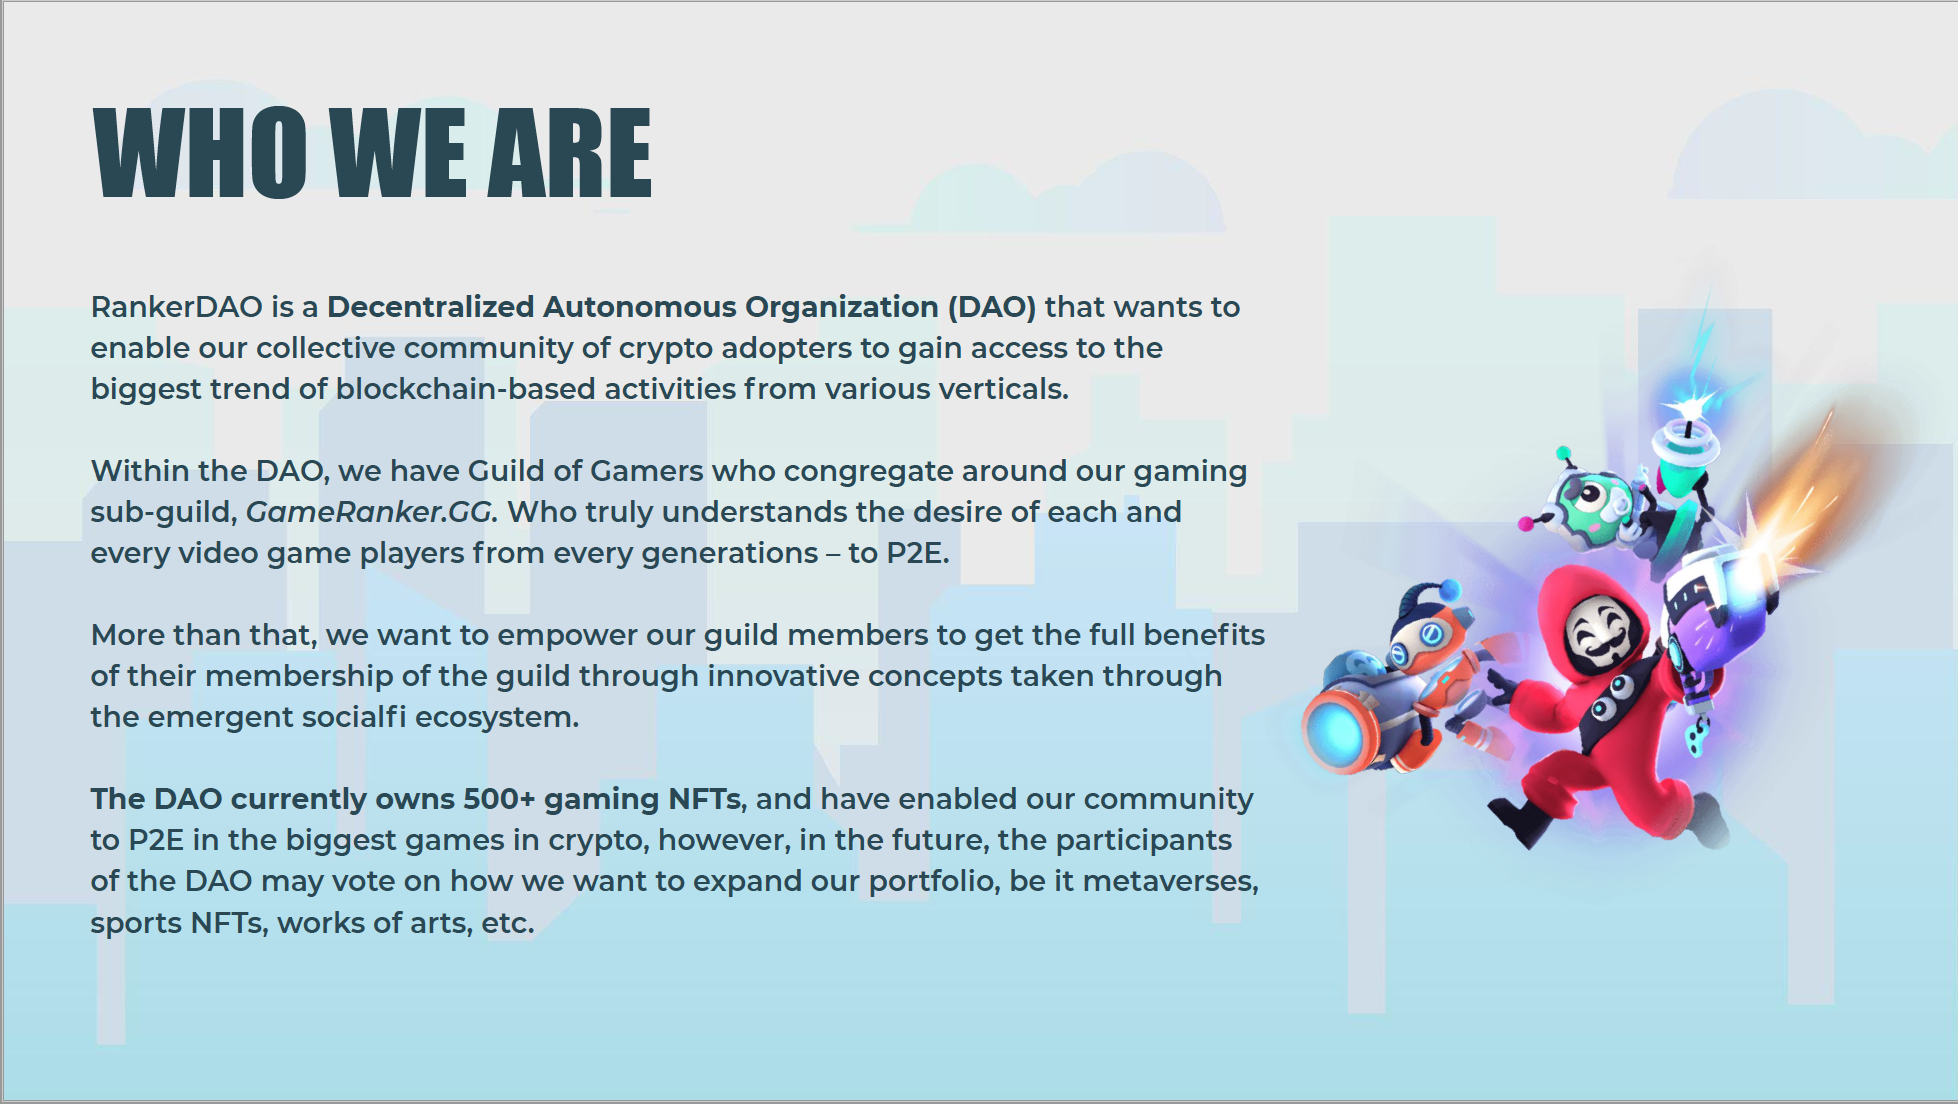
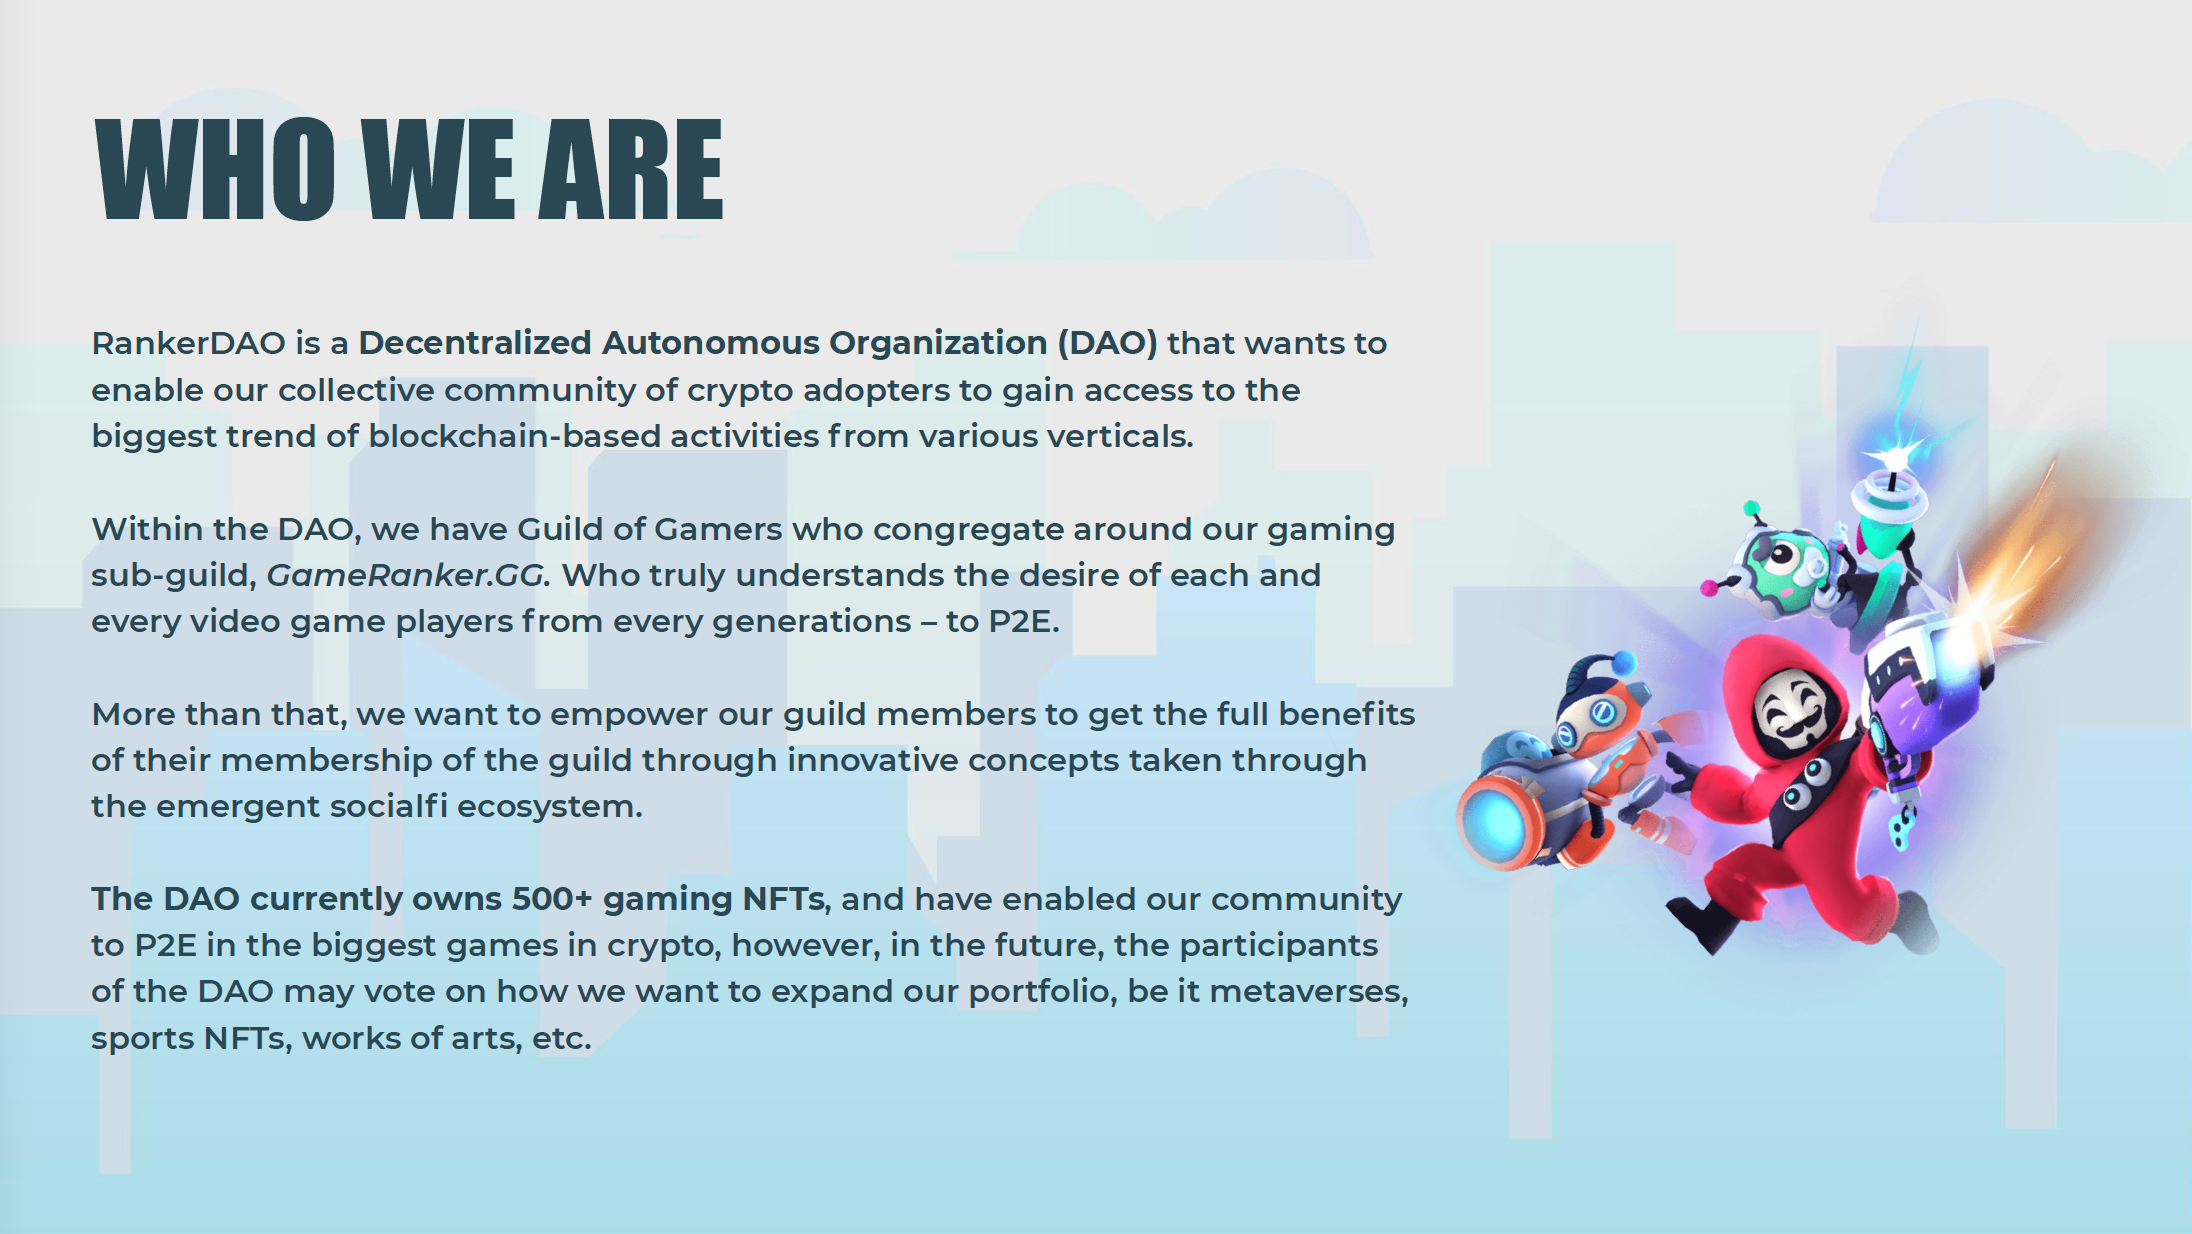
fix ultra wide screen

diff --git a/index.html b/index.html
@@ -18,33 +18,32 @@
         <link href="css/custom.css" rel="stylesheet" />
     </head>
     <body id="page-top">
-        <!-- Navigation-->
-        <nav class="navbar navbar-expand-lg bg-secondary text-uppercase fixed-top" id="mainNav">
-            <div class="container">
-                <a class="navbar-brand" href="#page-top">RankerDAO</a>
-                <button class="navbar-toggler text-uppercase font-weight-bold bg-primary text-white rounded" type="button" data-bs-toggle="collapse" data-bs-target="#navbarResponsive" aria-controls="navbarResponsive" aria-expanded="false" aria-label="Toggle navigation">
-                    <i class="fas fa-bars"></i>
-                </button>
-                <div class="collapse navbar-collapse" id="navbarResponsive">
-                    <ul class="navbar-nav ms-auto">
-                        <li class="nav-item mx-0 mx-lg-1"><a class="nav-link py-3 px-0 px-lg-3 rounded" href="http://t.me/rankerdao">Telegram</a></li>
-                        <li class="nav-item mx-0 mx-lg-1"><a class="nav-link py-3 px-0 px-lg-3 rounded" href="https://twitter.com/RankerDAO">Twitter</a></li>
-                        <li class="nav-item mx-0 mx-lg-1"><a class="nav-link py-3 px-0 px-lg-3 rounded" href="">Coming Soon</a></li>
-                    </ul>
+        <div id="root-container">
+            <!-- Navigation-->
+            <nav class="navbar navbar-expand-lg bg-secondary text-uppercase fixed-top" id="mainNav">
+                <div class="container">
+                    <a class="navbar-brand" href="#page-top">RankerDAO</a>
+                    <button class="navbar-toggler text-uppercase font-weight-bold bg-primary text-white rounded" type="button" data-bs-toggle="collapse" data-bs-target="#navbarResponsive" aria-controls="navbarResponsive" aria-expanded="false" aria-label="Toggle navigation">
+                        <i class="fas fa-bars"></i>
+                    </button>
+                    <div class="collapse navbar-collapse" id="navbarResponsive">
+                        <ul class="navbar-nav ms-auto">
+                            <li class="nav-item mx-0 mx-lg-1"><a class="nav-link py-3 px-0 px-lg-3 rounded" href="http://t.me/rankerdao">Telegram</a></li>
+                            <li class="nav-item mx-0 mx-lg-1"><a class="nav-link py-3 px-0 px-lg-3 rounded" href="https://twitter.com/RankerDAO">Twitter</a></li>
+                            <li class="nav-item mx-0 mx-lg-1"><a class="nav-link py-3 px-0 px-lg-3 rounded" href="">Coming Soon</a></li>
+                        </ul>
+                    </div>
                 </div>
-            </div>
-        </nav>
-        <img class="tempo first_section" src="assets/img/scrn_0_min.png" alt="..." />
-        <img class="tempo" src="assets/img/scrn_1_min.png" alt="..." />
-        <img class="tempo" src="assets/img/scrn_2_min.png" alt="..." />
-        <img class="tempo" src="assets/img/scrn_3_min.png" alt="..." />
-        <img class="tempo" src="assets/img/scrn_4_min.png" alt="..." />
-        <img class="tempo" src="assets/img/scrn_5_min.png" alt="..." />
+            </nav>
 
+            <img class="tempo first_section" src="assets/img/scrn_0_min.png" alt="..." />
+            <img class="tempo" src="assets/img/scrn_1_min.png" alt="..." />
+            <img class="tempo" src="assets/img/scrn_2_min.png" alt="..." />
+            <img class="tempo" src="assets/img/scrn_3_min.png" alt="..." />
+            <img class="tempo" src="assets/img/scrn_4_min.png" alt="..." />
+            <img class="tempo" src="assets/img/scrn_5_min.png" alt="..." />
 
-
-
-
+        </div>
         <!-- Bootstrap core JS-->
         <script src="https://cdn.jsdelivr.net/npm/bootstrap@5.1.3/dist/js/bootstrap.bundle.min.js"></script>
         <!-- Core theme JS-->

diff --git a/css/custom.css b/css/custom.css
@@ -74,3 +74,19 @@
 .first_section {
     margin-top: 50px;
 }
+
+#page-top {
+    background-color: silver;
+}
+
+#root-container {
+    max-width: 1600px;
+    margin-left: auto;
+    margin-right: auto;
+}
+
+#mainNav {
+    max-width: 1600px;
+    margin-left: auto;
+    margin-right: auto;
+}
